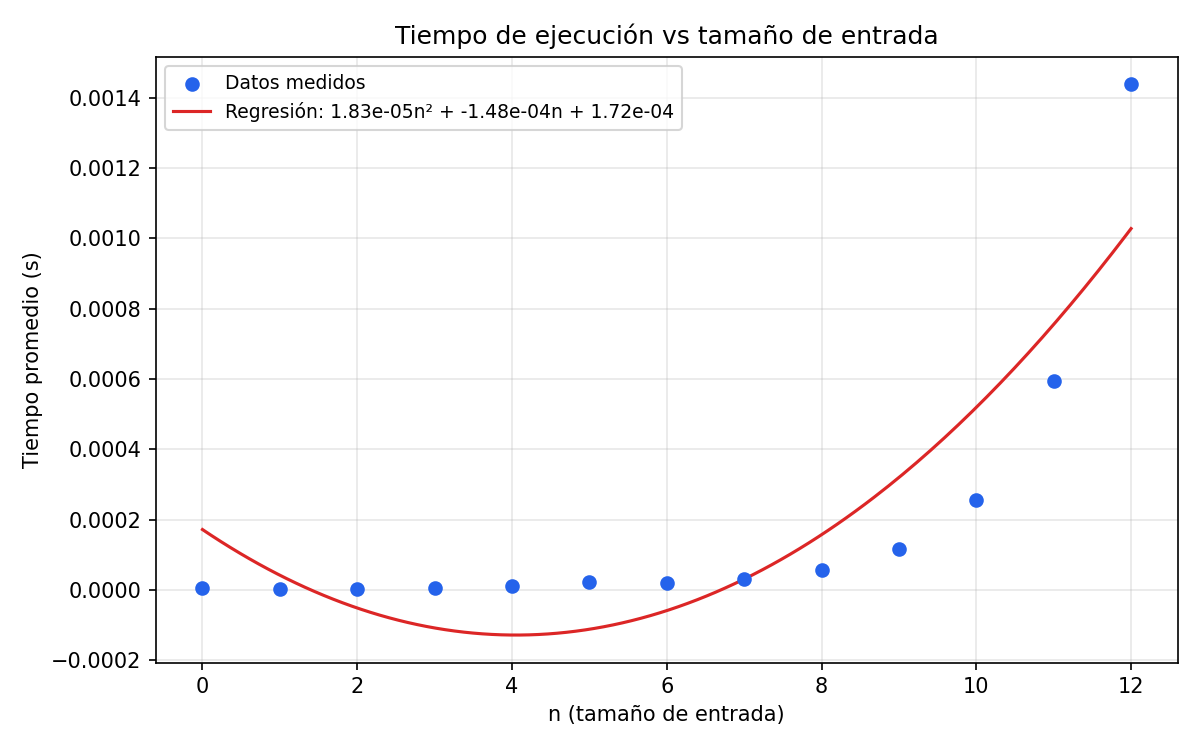
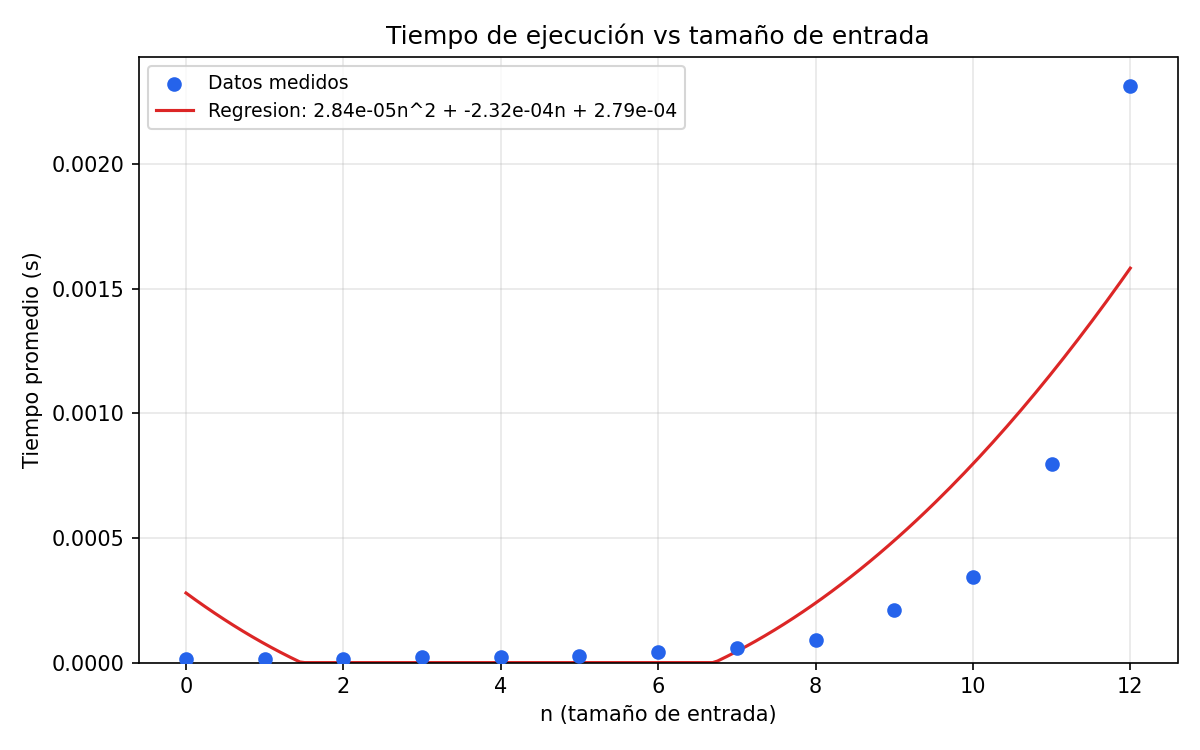
chore: clean up empty code change sections in the changes log

diff --git a/main.py b/main.py
@@ -206,11 +206,15 @@ def generarGraficoDispersion(rutaCsv: str, rutaPng: str) -> bool:
     fig, ax = plt.subplots(figsize=(8, 5))
     ax.scatter(ns, ts, color="#2563eb", zorder=5, label="Datos medidos")
     xf = np.linspace(0, max(ns), 200)
-    ax.plot(xf, a*xf**2 + b*xf + c, color="#dc2626", linewidth=1.5,
+    # Un polinomio de ajuste puede predecir valores negativos en tramos cortos;
+    # se recorta a 0 porque el tiempo físico no puede ser negativo.
+    yfit = np.maximum(a*xf**2 + b*xf + c, 0.0)
+    ax.plot(xf, yfit, color="#dc2626", linewidth=1.5,
             label=f"Regresion: {a:.2e}n^2 + {b:.2e}n + {c:.2e}")
     ax.set_xlabel("n (tamaño de entrada)")
     ax.set_ylabel("Tiempo promedio (s)")
     ax.set_title("Tiempo de ejecución vs tamaño de entrada")
+    ax.set_ylim(bottom=0.0)
     ax.legend(fontsize=9)
     ax.grid(True, alpha=0.3)
     fig.tight_layout()
